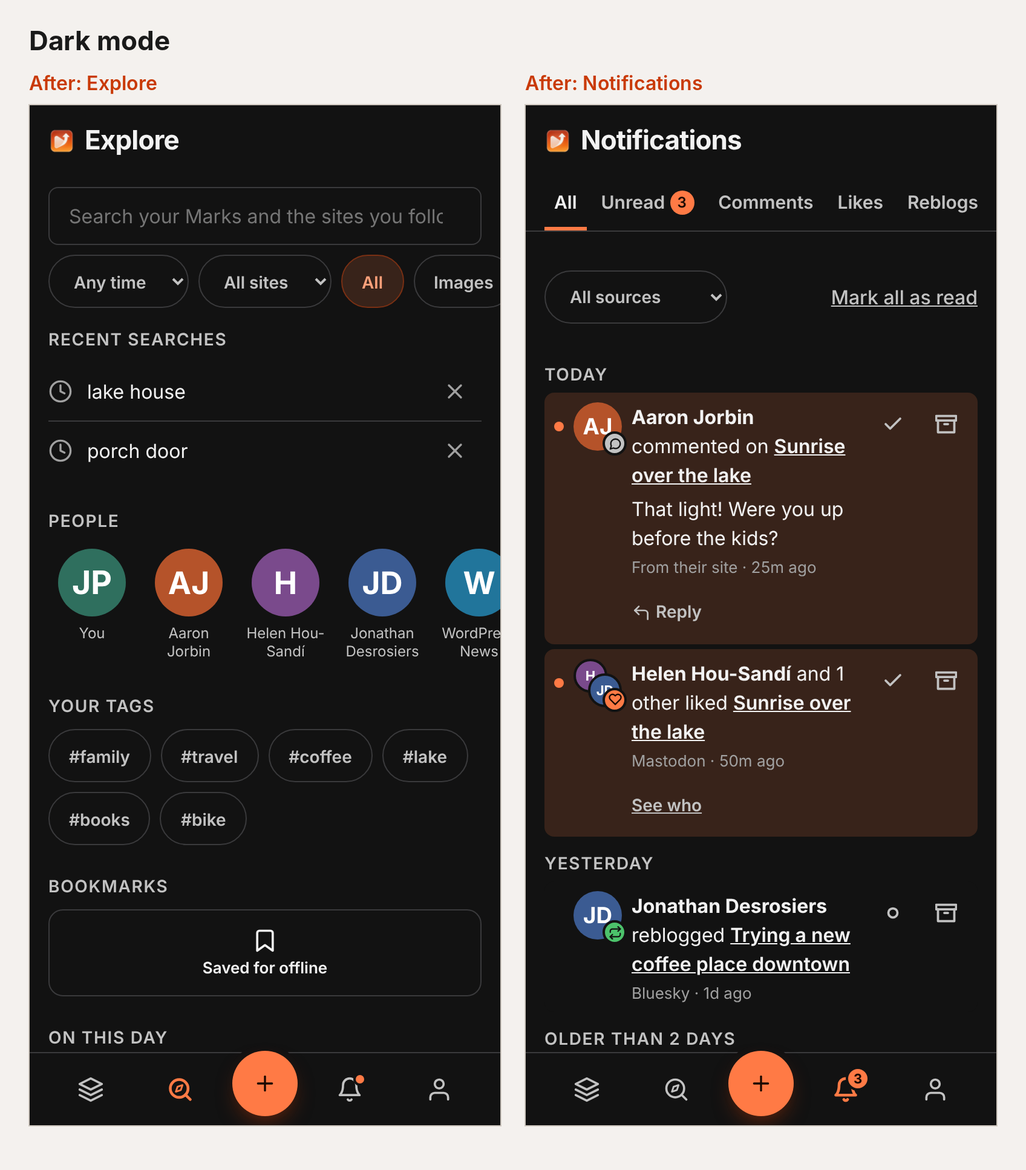
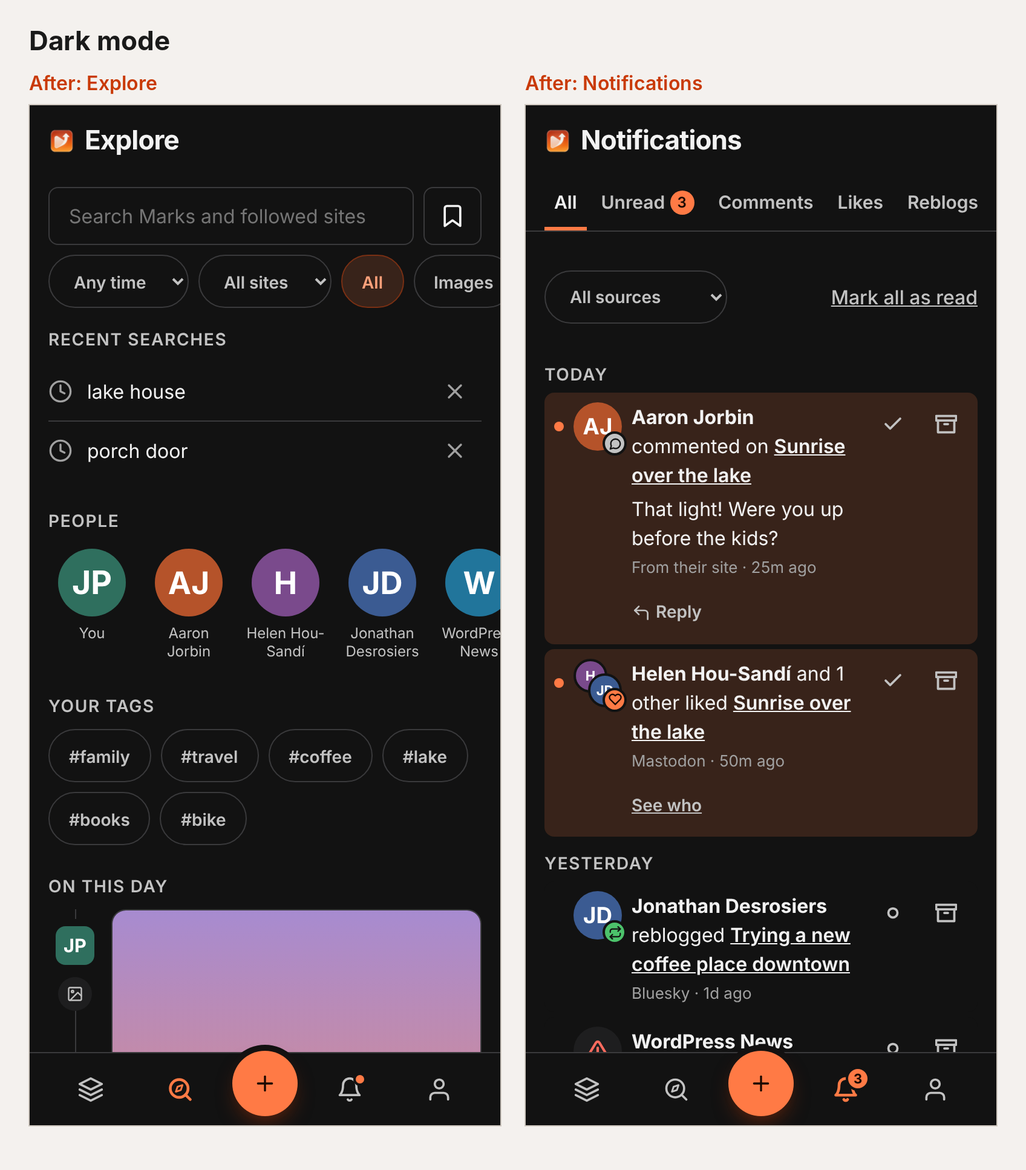
Explore: put Bookmarks beside the search box
Bookmarks sat under "Your tags", below the fold on a phone. It is now a
square toggle button on the search box's row, so it is one tap away
without scrolling. Pressed shows your bookmarks, and a second tap or
"Show everything" lets go. The Bookmarks section is gone from the
sections below, and the search placeholder is shorter so it fits beside
the button.

Claude-Session: https://claude.ai/code/session_014Vk5tbkQHkdDbHJPUBxgeh

diff --git a/tests/e2e/daymark.spec.js b/tests/e2e/daymark.spec.js
@@ -3617,13 +3617,13 @@ test('search: on the Explore tab, a query + type filter narrow the results', asy
 	await expect(page.locator('[data-search-start]')).toBeVisible();
 });
 
-// Explore and Search are one tab (issue #269): search on top, and under
-// its starting screen what Explore always had (Bookmarks, On this day, the
-// sites you follow). Each of those searches in place instead of leaving
-// for another screen. The followed sites are canned here, so the test
+// Explore and Search are one tab (issue #269): search on top with the
+// Bookmarks button beside it, and under its starting screen what Explore
+// always had (On this day, the sites you follow). Bookmarks and a followed
+// site search in place instead of leaving for another screen. The followed sites are canned here, so the test
 // needs no real feed, and "On this day" is handed a Mark from today, since
 // a test site has none from earlier years.
-test('explore: search on top, with Bookmarks, On this day and Following below', async ({ page }) => {
+test('explore: search on top with Bookmarks beside it, On this day and Following below', async ({ page }) => {
 	const memory = `E2E memory ${RUN_ID}`;
 
 	await loginAs(page);
@@ -3675,7 +3675,20 @@ test('explore: search on top, with Bookmarks, On this day and Following below', 
 	await expect(start).toBeVisible();
 	await expect(sections).toBeVisible();
 	await expect(list).toBeHidden();
-	await expect(sections.locator('[data-explore-bookmarks]')).toBeVisible();
+	// Bookmarks sits beside the search box: on the same row, inside the
+	// screen, a full-size tap target, and not down among the sections.
+	const bookmarks = page.locator('[data-explore-bookmarks]');
+	await expect(bookmarks).toBeVisible();
+	await expect(bookmarks).toHaveAccessibleName('Bookmarks');
+	await expect(bookmarks).toHaveAttribute('aria-pressed', 'false');
+	await expect(sections.locator('[data-explore-bookmarks]')).toHaveCount(0);
+	const inputBox = await input.boundingBox();
+	const bookmarksBox = await bookmarks.boundingBox();
+	expect(bookmarksBox.x).toBeGreaterThan(inputBox.x + inputBox.width);
+	expect(bookmarksBox.x + bookmarksBox.width).toBeLessThanOrEqual(page.viewportSize().width);
+	expect(Math.abs(bookmarksBox.y - inputBox.y)).toBeLessThanOrEqual(2);
+	expect(bookmarksBox.width).toBeGreaterThanOrEqual(44);
+	expect(bookmarksBox.height).toBeGreaterThanOrEqual(44);
 	const memories = sections.locator('[data-explore-memories]');
 	await expect(memories.getByText(memory).first()).toBeVisible();
 	await expect(sections.locator('[data-follow-site]')).toBeVisible();
@@ -3705,15 +3718,26 @@ test('explore: search on top, with Bookmarks, On this day and Following below', 
 	await expect(sections).toBeVisible();
 	await expect(start).toBeVisible();
 
-	// Bookmarks works the same way, and says what it is showing.
-	await sections.locator('[data-explore-bookmarks]').click();
+	// Bookmarks works the same way: it stays pressed and says what it is
+	// showing, and a second tap lets go.
+	await bookmarks.click();
+	await expect(bookmarks).toHaveAttribute('aria-pressed', 'true');
 	await expect(page.locator('[data-search-bookmarks-banner]')).toBeVisible();
 	await expect(sections).toBeHidden();
 	await expect(list).toBeVisible();
+	await bookmarks.click();
+	await expect(bookmarks).toHaveAttribute('aria-pressed', 'false');
+	await expect(page.locator('[data-search-bookmarks-banner]')).toBeHidden();
+	await expect(sections).toBeVisible();
+
+	// "Show everything" lets go too, and the button follows.
+	await bookmarks.click();
+	await expect(bookmarks).toHaveAttribute('aria-pressed', 'true');
+	await page.locator('[data-search-clear-bookmarks]').click();
+	await expect(bookmarks).toHaveAttribute('aria-pressed', 'false');
+	await expect(sections).toBeVisible();
 
 	// Typing searches as it always did.
-	await page.locator('[data-search-clear-bookmarks]').click();
-	await expect(sections).toBeVisible();
 	await input.fill(`nothing-matches-${RUN_ID}`);
 	await expect(sections).toBeHidden();
 	await expect(list).toContainText('Nothing matches');

diff --git a/assets/app.js b/assets/app.js
@@ -10689,9 +10689,14 @@
 				<label class="daymark-visually-hidden" for="daymark-search-input">${esc(
 					__('Search Daymark', 'daymark')
 				)}</label>
-				<input type="search" id="daymark-search-input" class="daymark-input" data-search-input placeholder="${esc(
-					__('Search your Marks and the sites you follow', 'daymark')
-				)}" autocomplete="off" />
+				<div class="daymark-searchrow">
+					<input type="search" id="daymark-search-input" class="daymark-input" data-search-input placeholder="${esc(
+						__('Search Marks and followed sites', 'daymark')
+					)}" autocomplete="off" />
+					<button type="button" class="daymark-searchsaved" data-explore-bookmarks aria-pressed="false" aria-label="${esc(
+						__('Bookmarks', 'daymark')
+					)}" title="${esc(__('Bookmarks', 'daymark'))}">${navIcon(BOOKMARK_GLYPH)}</button>
+				</div>
 				<div class="daymark-searchfilters" data-search-filters>
 					<label class="daymark-visually-hidden" for="daymark-date-filter">${esc(
 						__('Filter by date', 'daymark')
@@ -10735,16 +10740,6 @@
 				</p>
 				<div class="daymark-searchstart" data-search-start hidden></div>
 				<div class="daymark-exploresections" data-explore-sections hidden>
-					<section class="daymark-recent" aria-labelledby="daymark-explore-bookmarks-heading">
-						<h2 id="daymark-explore-bookmarks-heading" class="daymark-section-heading">${esc(
-							__('Bookmarks', 'daymark')
-						)}</h2>
-						<div class="daymark-exploretypes">
-							<button type="button" class="daymark-exploretype" data-explore-bookmarks>${navIcon(
-								BOOKMARK_GLYPH
-							)}<span>${esc(__('Saved for offline', 'daymark'))}</span></button>
-						</div>
-					</section>
 					<section class="daymark-recent" aria-labelledby="daymark-explore-memories-heading">
 						<h2 id="daymark-explore-memories-heading" class="daymark-section-heading">${esc(
 							__('On this day', 'daymark')
@@ -10881,15 +10876,15 @@
 				list.addEventListener('click', (event) => onFeedListClick(this, event));
 			}
 
-			// The sections under the starting screen. Each choice searches
-			// in place, and the results start at the top of the screen.
+			// Bookmarks sits beside the search box, so it is one tap away
+			// without scrolling. It switches your bookmarks on and off, and
+			// works together with the words and filters like any of them.
 			const bookmarksBtn = root.querySelector('[data-explore-bookmarks]');
 			if (bookmarksBtn) {
 				bookmarksBtn.addEventListener('click', () => {
-					this.searchBookmarked = true;
+					this.searchBookmarked = !this.searchBookmarked;
 					this.syncBookmarksBanner();
 					this.runSearch();
-					this.focusResultsFromTop();
 				});
 			}
 
@@ -11130,8 +11125,8 @@
 				.join('');
 		},
 
-		// A choice made far down the starting screen (Bookmarks, a followed
-		// site) puts its results at the top, so go there.
+		// A choice made far down the starting screen (a followed site)
+		// puts its results at the top, so go there.
 		focusResultsFromTop() {
 			window.scrollTo(0, 0);
 			const heading = root.querySelector('[data-daymark-focus]');
@@ -11188,6 +11183,10 @@
 			const banner = root.querySelector('[data-search-bookmarks-banner]');
 			if (banner) {
 				banner.hidden = !this.searchBookmarked;
+			}
+			const button = root.querySelector('[data-explore-bookmarks]');
+			if (button) {
+				button.setAttribute('aria-pressed', this.searchBookmarked ? 'true' : 'false');
 			}
 		},
 

diff --git a/assets/app.css b/assets/app.css
@@ -2447,37 +2447,53 @@ button.daymark-stat {
 }
 
 /* --- Explore --- */
-/* auto-fit (not a fixed repeat(4, 1fr)) so a 5th type (Checkin, issue
-   #143) wraps to its own evenly-sized row instead of a lone narrow item
-   stranded under an otherwise-empty row. */
-.daymark-exploretypes {
-	display: grid;
-	grid-template-columns: repeat(auto-fit, minmax(80px, 1fr));
+/* The search box with the Bookmarks button beside it. The button is a
+   square the height of the box, so both read as one row. Pressed means
+   the results are your bookmarks: it takes the accent wash a chosen
+   filter chip has, and its icon fills in. */
+.daymark-searchrow {
+	display: flex;
+	align-items: stretch;
 	gap: var(--daymark-spacing-sm);
 }
 
-.daymark-exploretype {
-	display: flex;
-	flex-direction: column;
+.daymark-searchrow .daymark-input {
+	flex: 1;
+	min-width: 0;
+	/* A longer placeholder (another language, a narrow phone) ends in an
+	   ellipsis instead of a cut-off letter. */
+	text-overflow: ellipsis;
+}
+
+.daymark-searchsaved {
+	display: inline-flex;
+	flex: none;
 	align-items: center;
 	justify-content: center;
-	gap: var(--daymark-spacing-xs);
-	min-height: 72px;
-	padding: var(--daymark-spacing-sm);
+	min-width: var(--daymark-input-height);
+	min-height: var(--daymark-tap-min);
+	padding: 0;
 	border: 1px solid var(--daymark-border);
-	border-radius: var(--daymark-radius);
+	border-radius: var(--daymark-radius-sm);
 	background: var(--daymark-bg);
 	color: var(--daymark-text-primary);
-	font-size: 13px;
-	font-weight: 600;
 	cursor: pointer;
 }
 
-.daymark-exploretype:hover,
-.daymark-exploretype:focus-visible {
-	color: var(--daymark-accent);
-	border-color: var(--daymark-accent-light);
+.daymark-searchsaved:hover,
+.daymark-searchsaved[aria-pressed='true'] {
 	background: var(--daymark-accent-wash);
+	border-color: var(--daymark-accent-light);
+	color: var(--daymark-accent-deep);
+}
+
+.daymark-searchsaved[aria-pressed='true'] .daymark-icon {
+	fill: currentColor;
+}
+
+.daymark-searchsaved:focus-visible {
+	outline: 2px solid var(--daymark-accent);
+	outline-offset: 2px;
 }
 
 /* --- Me --- */

diff --git a/docs/architecture-decisions.md b/docs/architecture-decisions.md
@@ -275,4 +275,4 @@ means CLAUDE.md's Non-goals section.
 | Daymark's icon at the site's top-level touch-icon address, for Firefox on iPhone (Unreleased) | Reported 2026-11-14 with a screenshot: Daymark added to an iPhone home screen from Safari and Chrome showed the icon, from Firefox a blank tile. **Cause**: Firefox for iOS's "Add to Home Screen" hands iOS a stand-in `WKWebView` that is never loaded and carries only the tab's URL and title (`HomePageActivity` in mozilla-mobile/firefox-ios, added to the share items by `ShareManager`), where Safari and Chrome hand over the real page. iOS therefore can't read the app shell's `apple-touch-icon` link or manifest, and falls back to the long-documented lookup at the top of the host: `/apple-touch-icon.png`, with a size (`-180x180`) and `-precomposed` variants. Mozilla tracks it as firefox-ios issue 35900 (open, no fix). On Jeff's site something outside Daymark answered that address with a blank white square, which is the tile he saw; a plain WordPress answers with a "not found" page and iOS draws a letter tile. Nothing in #554 was wrong. **Fix**: `Daymark_Routes::maybe_serve_root_touch_icon()`, hooked on `init` at priority 0 (`Daymark_Plugin::setup()`), answers a GET or HEAD for `^/apple-touch-icon(-NxN)?(-precomposed)?\.png$` (`is_root_touch_icon_request()`) with the bytes of `assets/apple-touch-icon.png` (200, `image/png`, cached for a day) and exits; `root_touch_icon_response()` holds the decision so it can be tested without the exit. It matches the request path itself, not a rewrite rule, so it needs no permalink flush on update and works with plain permalinks. **Which icon**: that address stands for the whole host, not only `/daymark`, and iOS sends nothing that says which page is being added, so one picture has to serve both. Jeff chose Daymark's own icon (2026-11-14), consistent with issue #414, over the Site Icon on a solid background or waiting for Firefox. The `daymark_root_touch_icon_file` filter returns `''` to leave the addresses alone or another PNG's path to serve that (anything that isn't a readable `.png` is ignored), and a real file at that address always wins because the web server answers it before WordPress. **Limits**: a host that answers these file names itself, before WordPress, is out of the plugin's reach (the site then needs a real file at that address); and the fallback lookup in Firefox's flow was worked out from Firefox's source, Apple's documentation, and one other project's report from a real iPad, not seen on a device here. | A page-side fix is impossible, since Firefox gives iOS nothing from the page, so the choice was between this site-wide address and doing nothing until Mozilla fixes it. Serving the file directly (not redirecting to the plugin's asset) avoids depending on whether iOS's icon fetcher follows redirects. Priority 0 on `init` puts the answer ahead of other handlers and saves building a 404 page for a request iOS makes for every site. Who else reads this address was weighed: Safari and Chrome read the page's own link tags first (the Site Icon on normal pages), so the change is seen mainly where no page is read, which today means Firefox on iPhone. |
 | "Add" tile on the photo strip; previous/next and "Next photo" in the photo sheet (Unreleased) | From the review of Instagram's post flow (2026-11-14, items I1 and I2; Jeff picked them 2026-11-15). **Add tile**: once the strip holds a photo or video, `CreateScreen.stripMarkup()` ends it with `stripAddMarkup()`, a dashed tile (`[data-media-add]`) that opens the composer's one file input with the same `ATTACH_MEDIA_ACCEPT` list and no `capture` as the Add bar's "Photo or video", which stays (it adds the first file). An audio-only strip gets no tile. `refreshStrip()` keeps focus on the tile across the redraw that follows a pick. **Stepping**: `MediaSheet` shows previous/next arrows (`[data-media-step]`) beside its title when the Mark has two or more files, and while another file follows, its main button is "Next photo" (`[data-sheet-next]`; "Next video", "Next audio" or "Next file" by what comes next) with a smaller Done beside it; on the last file Done is the main button, as before. `step()` re-renders the sheet for the neighbouring strip item through `show()`, so the title takes focus (and is read out), and closing returns focus to the thumbnail shown last. Alt text is written to state on every keystroke (`altChanged()`), so stepping loses nothing. `refreshSteps()` patches the arrows and redraws the bottom buttons when a move, add or remove changes what comes next; the panel's buttons are handled by one delegated listener so redrawn ones need no new listeners. | Instagram puts "+" beside the thumbnails and lists every photo's alt text on one screen. Daymark keeps its one-photo-per-sheet layout (room for the preview, AI suggestion and reordering) and removes the open, type, Done loop instead. Stepping covers every file in the strip, not only photos, so the arrows always match the row; the title is focused after a step rather than the alt box so a phone's keyboard doesn't open on photos that need no description. |
 | Search starting screen, people/tag/place shortcuts, one filter row (issue #269, Unreleased) | Concepts S1, S2 and S3 from the issue #269 review (Jeff picked them 2026-11-17; a page for each person is issue #614). **Starting screen**: with nothing typed and no filter set (`isIdle()` on the screen, `ExploreScreen` since the row below), Search no longer fetches `GET /timeline` and repeats the Timeline. `renderStart()` shows up to 5 recent searches, the people followed ("You" first, from the same `GET /subscriptions` answer the Source dropdown uses), and the most-used tags. The filter row stays on screen, so a filter still works without typing. **Recent searches** live in `localStorage` per user (`daymark:recent-searches:<user id>`), are saved when the box is committed (Enter or blur), and are cleared at logout: no server write for something only this device needs. **Shortcuts**: while typing, `renderSuggestions()` lists up to 3 people (matched in the app from the followed-sites list), 3 tags and 3 Check In places above the results. Tags and places come from the new `GET /daymark/v1/search/suggestions?q=` (`edit_posts` + nonce; no rate limit, it is two local reads). With no `q` it returns the 8 most-used tags for the starting screen. Places are grouped `_daymark_place_name` values on published posts, need 2 or more letters, and leave out password-protected Marks for anyone without `edit_others_posts`, the same rule keyword search applies. A person shortcut sets the existing Source dropdown; a tag or place shortcut sets new `tag` (term ID) or `place` (exact name) params on `GET /timeline`, shown as a "Showing Marks tagged X." line with "Show everything". Both params return only the site's own posts (a followed site's cached posts carry neither), so choosing one drops a chosen followed site and the reverse. **Wider keyword**: `query_with_search_extra()` adds one OR to WordPress's own search clause through a `posts_search` filter that is added and removed around that single query: own posts also match a tag whose name contains the words (`search_tag_match_sql()`), followed posts also match their site's title (`search_site_match_sql()`). Every other clause (type, date, password protection) still applies, because the OR sits inside the search group. **One filter row**: Date, Source and the type chips share one sideways-scrolling row. The two controls stay native `<select>`s (no new sheet to build or translate), sized to the chosen label by `fitSelectToChoice()`. Date gains This Year, Last Year and "Pick a month…", which opens Month and Year selects (years back to the site's first post, `config.searchFirstYear`, and at least ten). The chosen month is a `month:YYYY-MM` key mapped onto the existing `after`/`before` bounds, so the server gained no date code. | #293 dropped the Tag and Author filters because the search box was expected to cover them, and it did not: a search for a tag's name or a followed person's name found nothing unless the word was also in a post's text. Shortcuts answer "show me everything from X" in one tap without a second row of dropdowns (principle 7, progressive disclosure), and a resting Search that is not a second Timeline gives the tab its own job. Builds on yusuf-saif's date filter (PR #413). |
-| Explore and Search as one tab, Notifications in the bottom nav (issue #269, Unreleased) | Concept S5 from the issue #269 review (Jeff asked for it 2026-11-18, with the two icons blended into one). **Bottom nav**: Timeline, Explore, +New, Notifications, Me. This replaces the tab order in the "Bottom navigation" row above. **One screen**: the old Explore screen is gone and the Search screen became `ExploreScreen` at `#explore`, titled "Explore", with the search box and filter row on top. At rest (`isIdle()`), under the starting screen's recent searches, people and tags, it shows what Explore had: a Bookmarks button, "On this day" and the Following list (stars and "Follow a site" included). "Browse by type" was removed because the type chips in the filter row do the same job. Bookmarks and a Following row no longer hand a preset to another screen: they set the bookmarks flag or the Source dropdown in place and move to the top of the results. `#search` is rewritten to `#explore` in `showScreen()`, and the `/daymark/search` route stays in `Daymark_Routes::SCREENS`, so saved links, the old tab's address and Me's "My marks" all still land on search. Feed snapshots for the screen are keyed `#explore`; coming back from an "On this day" card restores those cards and the scroll position. **Notifications as a tab**: `NotificationsScreen` renders the shared footer (`navFooterMarkup('notifications')`), its header carries the Daymark icon where the back arrow was, and the bell is gone from every header (`notificationsIconButton()` removed). The tab shows the unread mark the bell had: a dot when `config.notifications.hasUnread` is set, or the unread number when the "unread count on the app's icon" setting is on, because `GET /notifications/status` already returns `unread_count` then and counting otherwise means reading the whole list. `updateUnreadDots()` redraws just that tab's link. The Undo bar after archiving sits above the nav. **Icon**: `EXPLORE_GLYPH` is the magnifying glass with the compass needle drawn inside the lens at 70% size (its stroke thinned to 1.6 so the needle stays open at 22px); `SEARCH_GLYPH` is gone. | After S1 to S3, Search at rest and Explore were both "places to start looking", on two tabs. One tab with search on top is one fewer thing to choose between, and it frees a spot for Notifications, which is used daily and was a small bell in a header that hides on scroll. Keeping `#search` and `/daymark/search` working costs one line and avoids broken bookmarks. The dot-or-number rule reuses what the server already works out instead of adding a count query to every status check. The Following list and the People strip both stay for now: the list is where favorites and "Follow a site" live, and reshaping Following belongs to the Explore concepts for #294. |
+| Explore and Search as one tab, Notifications in the bottom nav (issue #269, Unreleased) | Concept S5 from the issue #269 review (Jeff asked for it 2026-11-18, with the two icons blended into one). **Bottom nav**: Timeline, Explore, +New, Notifications, Me. This replaces the tab order in the "Bottom navigation" row above. **One screen**: the old Explore screen is gone and the Search screen became `ExploreScreen` at `#explore`, titled "Explore", with the search box and filter row on top. At rest (`isIdle()`), under the starting screen's recent searches, people and tags, it shows what Explore had: "On this day" and the Following list (stars and "Follow a site" included). **Bookmarks** is a square toggle button beside the search box (`[data-explore-bookmarks]`, `aria-pressed`), not a section: the first build put it under "Your tags", which was below the fold on a phone (Jeff, 2026-11-18). It flips the screen's bookmarks flag, so it combines with the words and filters, and the "Showing your bookmarks." line still says what is shown. "Browse by type" was removed because the type chips in the filter row do the same job. Bookmarks and a Following row no longer hand a preset to another screen: they set the bookmarks flag or the Source dropdown in place, and a Following row moves to the top of the results. `#search` is rewritten to `#explore` in `showScreen()`, and the `/daymark/search` route stays in `Daymark_Routes::SCREENS`, so saved links, the old tab's address and Me's "My marks" all still land on search. Feed snapshots for the screen are keyed `#explore`; coming back from an "On this day" card restores those cards and the scroll position. **Notifications as a tab**: `NotificationsScreen` renders the shared footer (`navFooterMarkup('notifications')`), its header carries the Daymark icon where the back arrow was, and the bell is gone from every header (`notificationsIconButton()` removed). The tab shows the unread mark the bell had: a dot when `config.notifications.hasUnread` is set, or the unread number when the "unread count on the app's icon" setting is on, because `GET /notifications/status` already returns `unread_count` then and counting otherwise means reading the whole list. `updateUnreadDots()` redraws just that tab's link. The Undo bar after archiving sits above the nav. **Icon**: `EXPLORE_GLYPH` is the magnifying glass with the compass needle drawn inside the lens at 70% size (its stroke thinned to 1.6 so the needle stays open at 22px); `SEARCH_GLYPH` is gone. | After S1 to S3, Search at rest and Explore were both "places to start looking", on two tabs. One tab with search on top is one fewer thing to choose between, and it frees a spot for Notifications, which is used daily and was a small bell in a header that hides on scroll. Keeping `#search` and `/daymark/search` working costs one line and avoids broken bookmarks. The dot-or-number rule reuses what the server already works out instead of adding a count query to every status check. The Following list and the People strip both stay for now: the list is where favorites and "Follow a site" live, and reshaping Following belongs to the Explore concepts for #294. |

diff --git a/CLAUDE.md b/CLAUDE.md
@@ -456,7 +456,7 @@ implication for the codebase.
 - wp-admin chrome or site management features inside the Daymark app shell's own UI — the app shell stays focused on day-to-day operational use (reading the Timeline, publishing content). Infrequently-touched configuration/settings (e.g. subscription management, `rel=me`) belong in wp-admin instead, outside the app shell — see the architectural decisions table for the confirmed instances of this. Not a ban on Daymark ever having a wp-admin screen; see the row above for the current thinking on eventually migrating some of this into an in-app settings screen.
 - Multi-user or team workflows beyond standard WordPress roles
 - Full offline PWA mode. Narrowed twice now: offline **creation** for a session already open when connectivity drops (issue #121), and a **cold load** of `/daymark` itself with zero connectivity (issue #126) — see "Offline-first creation" and "Cold-offline-load support" in the architectural decisions table for both. Still out of scope: general offline **reading** — Timeline/notifications/Explore/Search still require connectivity even on the offline-fallback shell (conservative SW only; only the shell itself, its static assets, and a redacted config are ever cached, never a REST response).
-- A finished Explore, beyond its current foundation (search on top, then Bookmarks, "On this day", and "Following"; see the "Explore and Search as one tab" decision) — memories, highlights, collections, favorites, recently-popular, and suggested accounts/content are future sections, not implied by what's there today
+- A finished Explore, beyond its current foundation (search on top with Bookmarks beside it, then "On this day" and "Following"; see the "Explore and Search as one tab" decision) — memories, highlights, collections, favorites, recently-popular, and suggested accounts/content are future sections, not implied by what's there today
 - Speculative AI or semantic search — Search stays keyword + explicit filters (type, source/person followed, date, tag, and Check In place exist today; see the Search starting screen and shortcuts decision)
 
 ## Strategic line

diff --git a/CHANGELOG.md b/CHANGELOG.md
@@ -29,7 +29,7 @@ can't act on them.
 
 ### Changed
 
-- Explore and Search are now one tab. Search sits at the top, and under it are your recent searches, the people you follow, your most-used tags, Bookmarks, On this day and the sites you follow. The tab's icon is a magnifying glass with the compass needle inside. ([#615](https://github.com/jeffpaul/daymark/pull/615))
+- Explore and Search are now one tab. Search sits at the top with a Bookmarks button beside it, and under it are your recent searches, the people you follow, your most-used tags, On this day and the sites you follow. The tab's icon is a magnifying glass with the compass needle inside. ([#615](https://github.com/jeffpaul/daymark/pull/615))
 - Notifications is now a tab in the bottom bar, where Search used to be, and it shows a mark when something new is waiting. The bell is gone from the top of each screen. ([#615](https://github.com/jeffpaul/daymark/pull/615))
 - With nothing typed, search shows a quiet starting screen where it used to show a copy of the Timeline. Its filters now sit in one row that slides sideways, so results start higher on the screen. ([#615](https://github.com/jeffpaul/daymark/pull/615))
 

diff --git a/docs/roadmap.md b/docs/roadmap.md
@@ -351,8 +351,8 @@ decision rows for the full technical record.
   [#269](https://github.com/jeffpaul/daymark/issues/269). ([#615](https://github.com/jeffpaul/daymark/pull/615))
 - [x] **Explore and Search as one tab, Notifications in the bar**: the
   bottom nav is now Timeline, Explore, +New, Notifications, Me. Explore has
-  search on top, then Bookmarks, "On this day", and Following; "Browse by
-  type" went, since the type chips cover it. Notifications left the header
+  search on top with a Bookmarks button beside it, then "On this day" and
+  Following; "Browse by type" went, since the type chips cover it. Notifications left the header
   bell for its own tab, which shows an unread mark. One icon for the merged
   tab: a magnifying glass with the compass needle inside. Old Search links
   still open it. ([#615](https://github.com/jeffpaul/daymark/pull/615))
